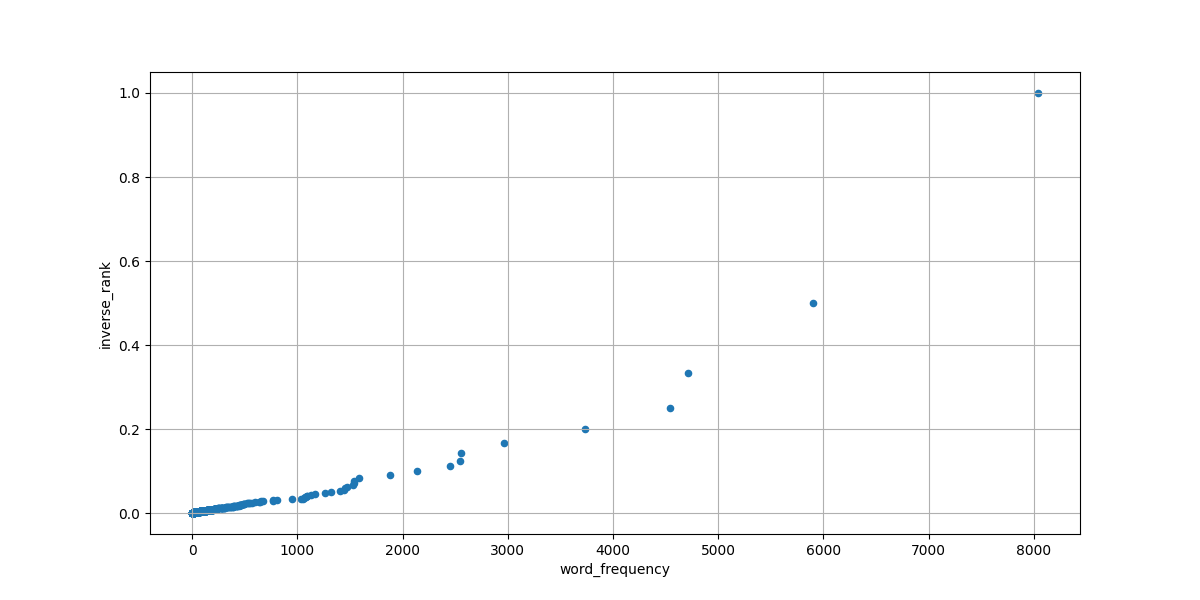
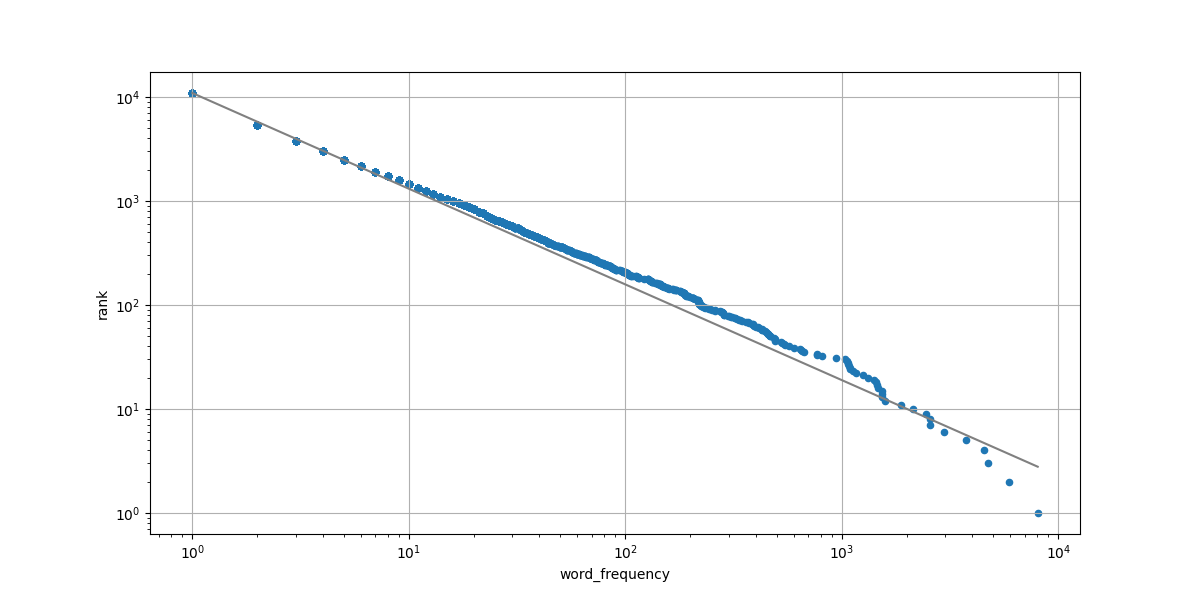
Added fit word count data

diff --git a/bin/plotcounts.py b/bin/plotcounts.py
@@ -1,39 +1,92 @@
+"""Plot word counts."""
 
 import argparse
+
+import numpy as np
 import pandas as pd
+from scipy.optimize import minimize_scalar
+
+
+def nlog_likelihood(beta, counts):
+    """Log-likelihood function."""
+    likelihood = - np.sum(np.log((1/counts)**(beta - 1)
+                          - (1/(counts + 1))**(beta - 1)))
+    return likelihood
+
+
+def get_power_law_params(word_counts):
+    """Get the power law parameters."""
+    mle = minimize_scalar(nlog_likelihood,
+                          bracket=(1 + 1e-10, 4),
+                          args=word_counts,
+                          method='brent')
+    beta = mle.x
+    alpha = 1 / (beta - 1)
+    return alpha
+
+
+def plot_fit(curve_xmin, curve_xmax, max_rank, alpha, ax):
+    """
+    Plot the power law curve that was fitted to the data.
+
+    Parameters
+    ----------
+    curve_xmin : float
+        Minimum x-bound for fitted curve
+    curve_xmax : float
+        Maximum x-bound for fitted curve
+    max_rank : int
+        Maximum word frequency rank.
+    alpha : float
+        Estimated alpha parameter for the power law.
+    ax : matplotlib axes
+        Scatter plot to which the power curve will be added.
+    """
+    xvals = np.arange(curve_xmin, curve_xmax)
+    yvals = max_rank * (xvals**(-1 / alpha))
+    ax.loglog(xvals, yvals, color='grey')
 
 
 def main(args):
-    input_csv = args.infile
-    output_png = args.outfile
-    df = pd.read_csv(input_csv, header=None, names=('word', 'word_frequency'))
-    df['rank'] = df['word_frequency'].rank(ascending=False, 
-method='max')
-    df['inverse_rank'] = 1 / df['rank']
-    scatplot = df.plot.scatter(x='word_frequency',
-                               y='rank', loglog = True,
-                               figsize=[12, 6],
-                               grid=True)
+    """Run the command line program."""
+    df = pd.read_csv(args.infile, header=None,
+                     names=('word', 'word_frequency'))
+    df['rank'] = df['word_frequency'].rank(ascending=False,
+                                           method='max')
     ax = df.plot.scatter(x='word_frequency',
-                         y='inverse_rank',
+                         y='rank', loglog=True,
                          figsize=[12, 6],
                          grid=True,
                          xlim=args.xlim)
+
+    word_counts = df['word_frequency'].to_numpy()
+    alpha = get_power_law_params(word_counts)
+    print('alpha:', alpha)
+
+    # Since the ranks are already sorted, we can take the last
+    # one instead of computing which row has the highest rank
+    max_rank = df['rank'].to_numpy()[-1]
+
+    # Use the range of the data as the boundaries
+    # when drawing the power law curve
+    curve_xmin = df['word_frequency'].min()
+    curve_xmax = df['word_frequency'].max()
+
+    plot_fit(curve_xmin, curve_xmax, max_rank, alpha, ax)
     ax.figure.savefig(args.outfile)
 
 
 if __name__ == '__main__':
-    USAGE = 'Brief description of what the script does.'
-    parser = argparse.ArgumentParser(description=USAGE)
+    parser = argparse.ArgumentParser(description=__doc__)
     parser.add_argument('infile', type=argparse.FileType('r'),
                         nargs='?', default='-',
                         help='Word count csv file name')
-    parser.add_argument('--outfile', type=str, 
+    parser.add_argument('--outfile', type=str,
                         default='plotcounts.png',
                         help='Output image file name')
-    parser.add_argument('--xlim', type=float, default=None,
-                        nargs=2,
+    parser.add_argument('--xlim', type=float, nargs=2,
                         metavar=('XMIN', 'XMAX'),
-                        help='X-axis bounds')
+                        default=None, help='X-axis limits')
     args = parser.parse_args()
     main(args)
+
